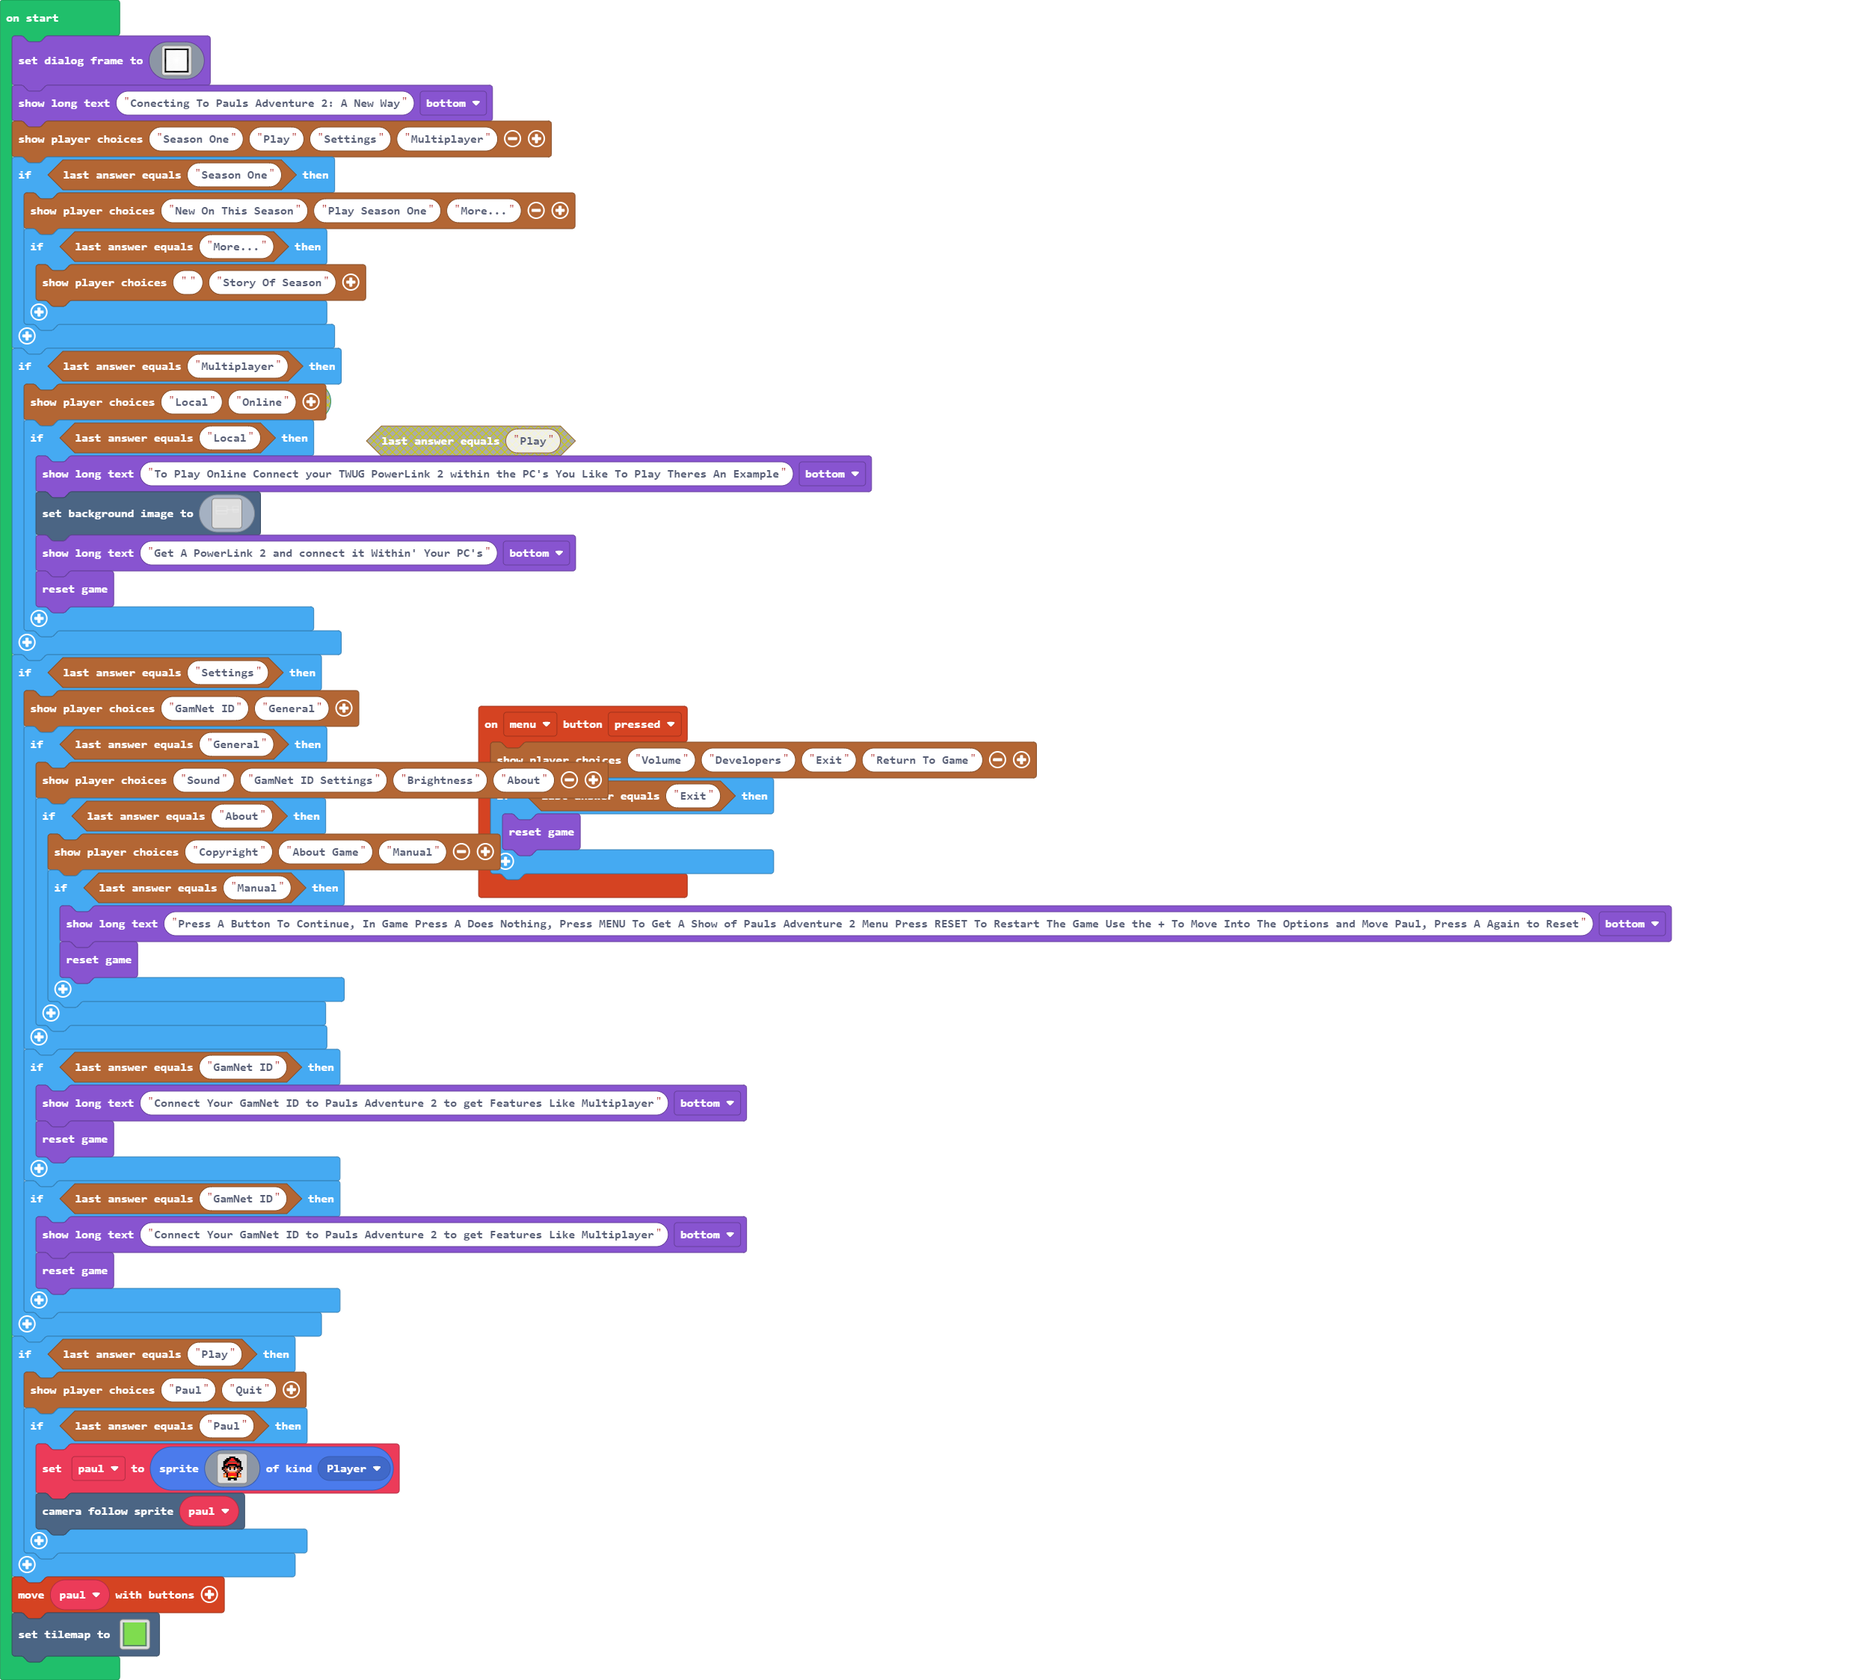
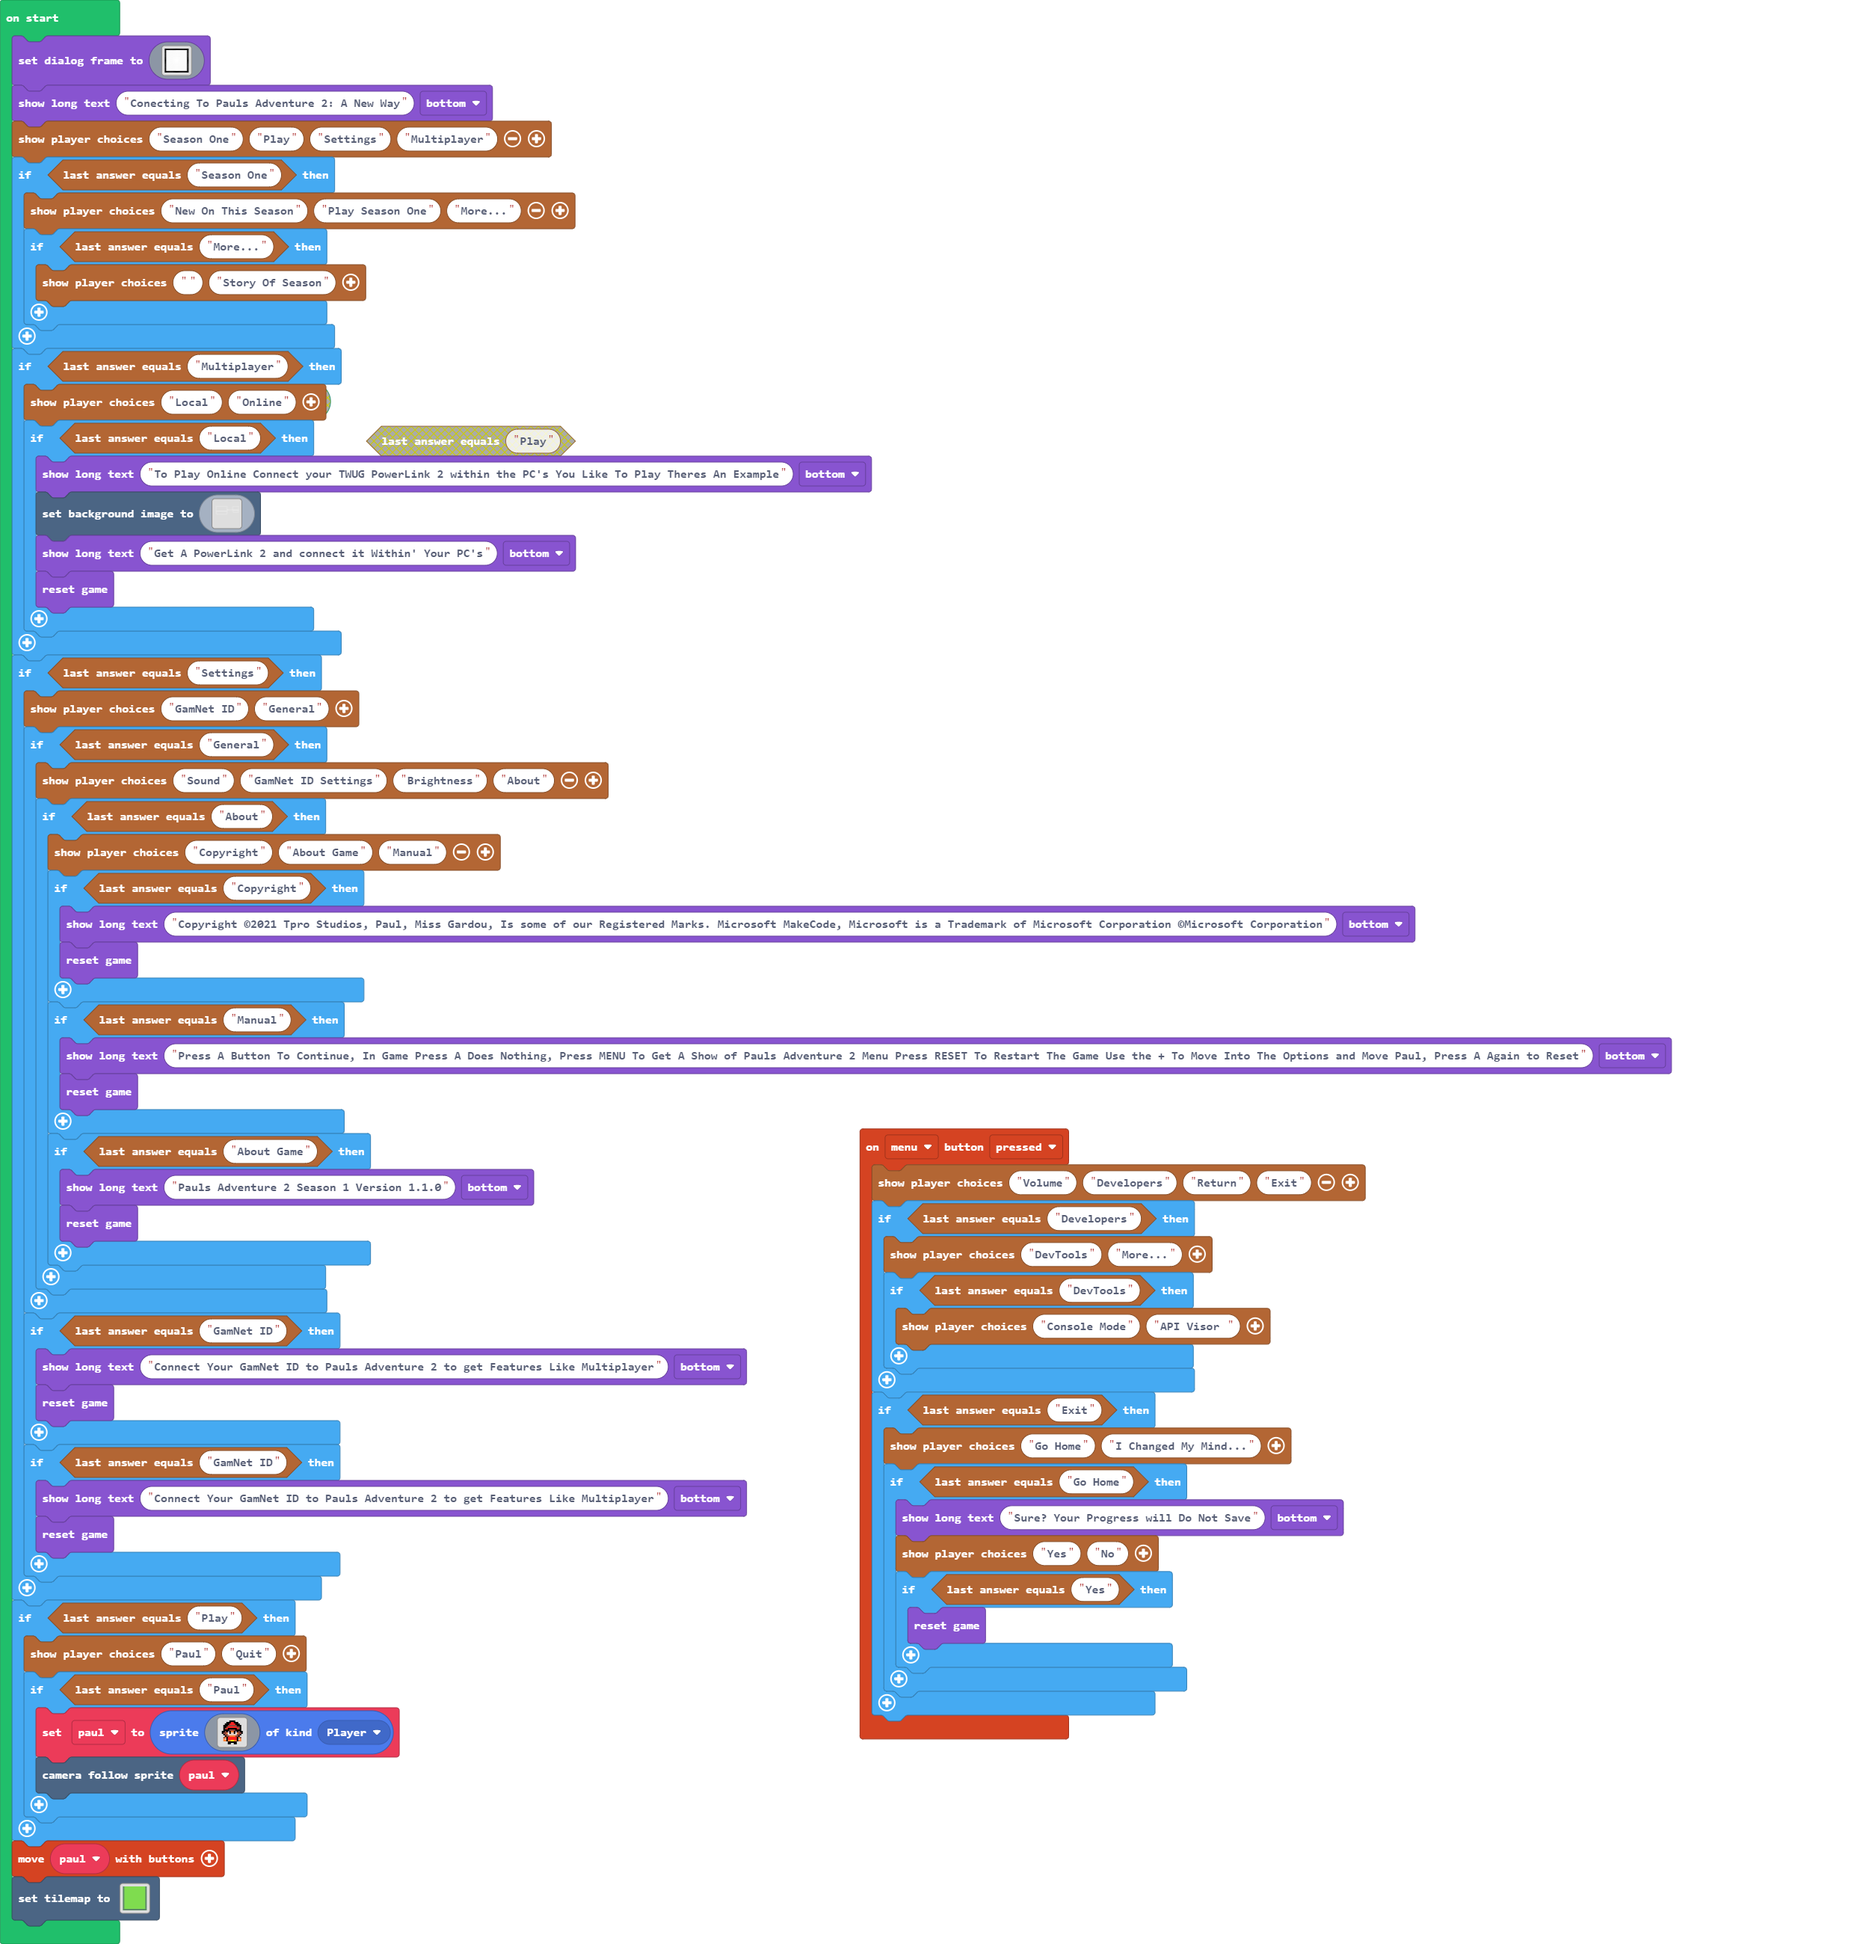
Added More Info Options, DevTools in Menu for Devs and added a "Exit" Option in Menu

Changed region(s): [[0.0, 0.0, 0.9062, 0.9964]]

diff --git a/main.ts b/main.ts
@@ -1,7 +1,20 @@
 controller.menu.onEvent(ControllerButtonEvent.Pressed, function () {
-    story.showPlayerChoices("Volume", "Developers", "Exit", "Return To Game")
+    story.showPlayerChoices("Volume", "Developers", "Return", "Exit")
+    if (story.checkLastAnswer("Developers")) {
+        story.showPlayerChoices("DevTools", "More...")
+        if (story.checkLastAnswer("DevTools")) {
+            story.showPlayerChoices("Console Mode", "API Visor ")
+        }
+    }
     if (story.checkLastAnswer("Exit")) {
-        game.reset()
+        story.showPlayerChoices("Go Home", "I Changed My Mind...")
+        if (story.checkLastAnswer("Go Home")) {
+            game.showLongText("Sure? Your Progress will Do Not Save", DialogLayout.Bottom)
+            story.showPlayerChoices("Yes", "No")
+            if (story.checkLastAnswer("Yes")) {
+                game.reset()
+            }
+        }
     }
 })
 let paul: Sprite = null
@@ -166,8 +179,16 @@ if (story.checkLastAnswer("Settings")) {
         story.showPlayerChoices("Sound", "GamNet ID Settings", "Brightness", "About")
         if (story.checkLastAnswer("About")) {
             story.showPlayerChoices("Copyright", "About Game", "Manual")
+            if (story.checkLastAnswer("Copyright")) {
+                game.showLongText("Copyright ©2021 Tpro Studios, Paul, Miss Gardou, Is some of our Registered Marks. Microsoft MakeCode, Microsoft is a Trademark of Microsoft Corporation ©Microsoft Corporation", DialogLayout.Bottom)
+                game.reset()
+            }
             if (story.checkLastAnswer("Manual")) {
                 game.showLongText("Press A Button To Continue, In Game Press A Does Nothing, Press MENU To Get A Show of Pauls Adventure 2 Menu Press RESET To Restart The Game Use the + To Move Into The Options and Move Paul, Press A Again to Reset", DialogLayout.Bottom)
+                game.reset()
+            }
+            if (story.checkLastAnswer("About Game")) {
+                game.showLongText("Pauls Adventure 2 Season 1 Version 1.1.0", DialogLayout.Bottom)
                 game.reset()
             }
         }
